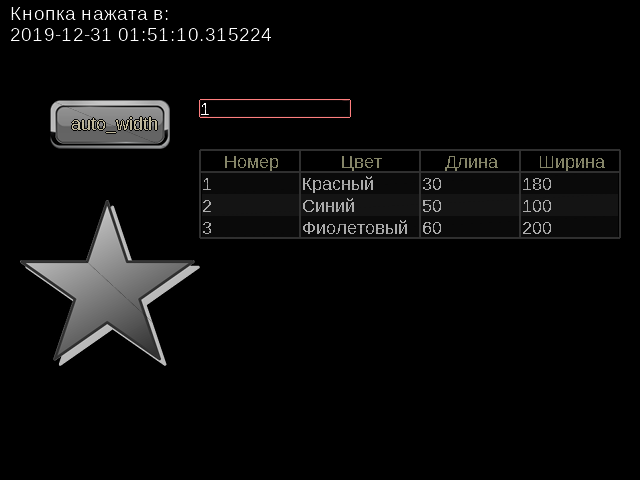
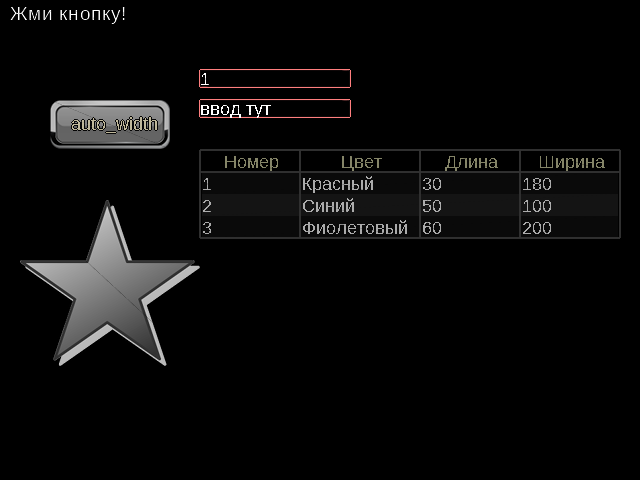
Улучшено тестирование

Changed region(s): [[0.0, 0.0, 0.4375, 0.0938], [0.3125, 0.2188, 0.4375, 0.25], [0.3125, 0.1562, 0.3438, 0.1875]]

diff --git a/test.py b/test.py
@@ -1,11 +1,37 @@
 import unittest
-
+import subprocess
+import os
+import signal
+import time
+import fcntl
 
 class MyTestCase(unittest.TestCase):
-    def test_something(self):
+
+    def test_imports(self):
         import main
-        print('%s' % str(main))
+        print (u'%s\n%s' % (self, main))
+
+    def test_screenshot(self):
+        print (u'%s' % self)
+        pid = subprocess.Popen(
+            'python main.py &',
+            shell=True,
+            preexec_fn=os.setsid,
+            stdout=subprocess.PIPE,
+            stderr=subprocess.PIPE)
+        fd = pid.stdout.fileno()
+        flags = fcntl.fcntl(fd, fcntl.F_GETFL)
+        fcntl.fcntl(fd, fcntl.F_SETFL, flags | os.O_NONBLOCK)
+        time.sleep(2)
+        try:
+            rc = pid.stdout.read()
+            if 'traceback' in rc:
+                self.fail()
+        except IOError:
+            print("OK")
+        os.system('./screenshot.sh')
+        os.killpg(pid.pid, signal.SIGTERM)
 
 
 if __name__ == '__main__':
-    unittest.main()
+    unittest.main(failfast=True)
